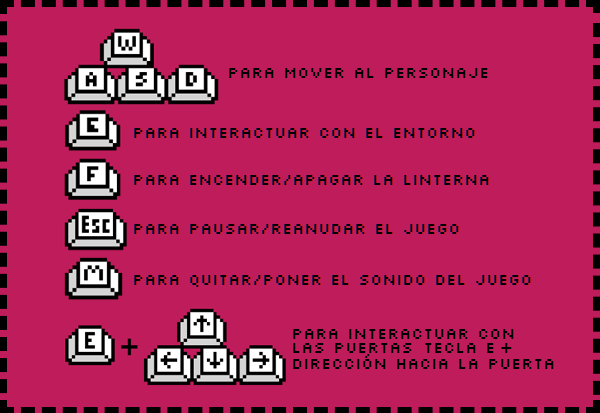
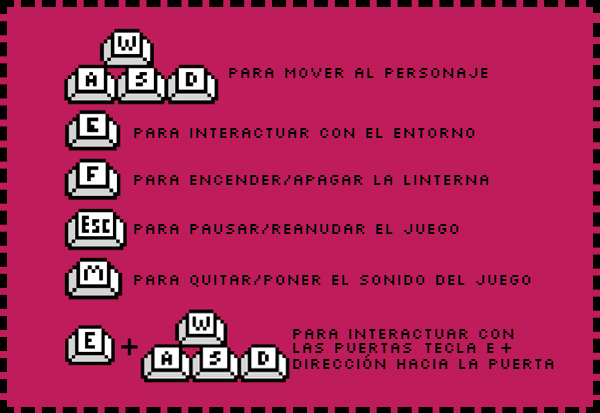
controles corregidos

Changed region(s): [[0.21, 0.7264, 0.51, 0.9298]]

diff --git a/index.html b/index.html
@@ -67,7 +67,7 @@
 			</br>
 			<br>
 			<img src="assets/controlPuertas.png" alt="Controles interaccion 2" style="width: 45%; height: 45%;"> 
-			<br>(E + ←↑↓→) Para interactuar con las puertas Tecla E + Dirección hacia la puerta</br>
+			<br>(E + WASD) Para interactuar con las puertas Tecla E + Dirección hacia la puerta</br>
 			</br>
 			<br>
 			<img src="assets/controlF.png" alt="Controles linterna" style="width: 10%; height: 10%;"> 
